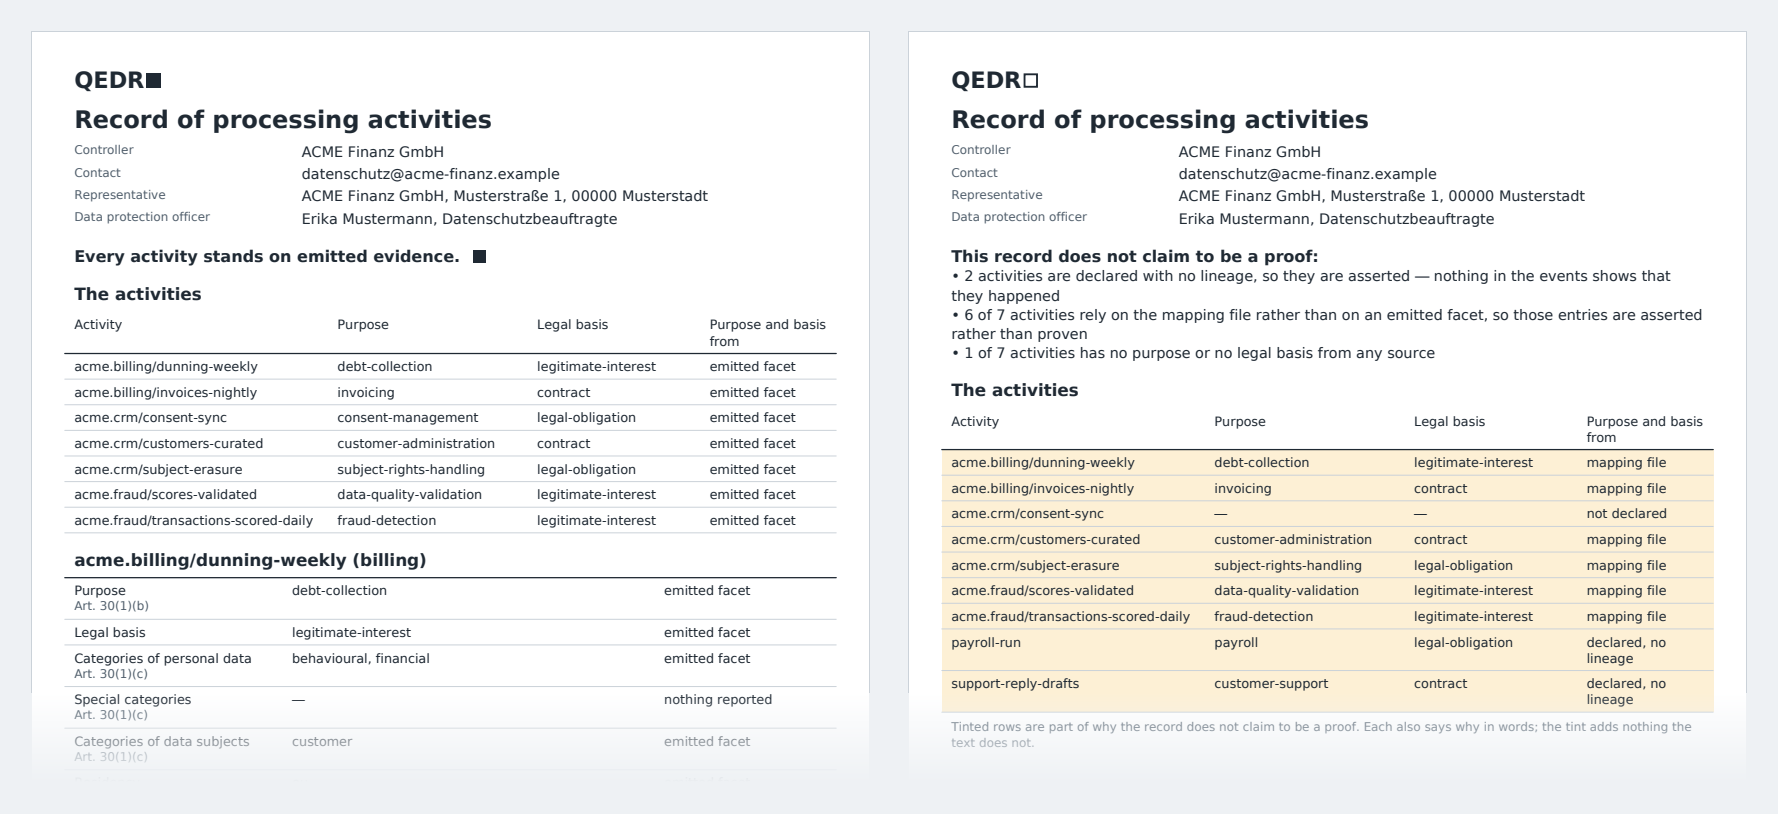
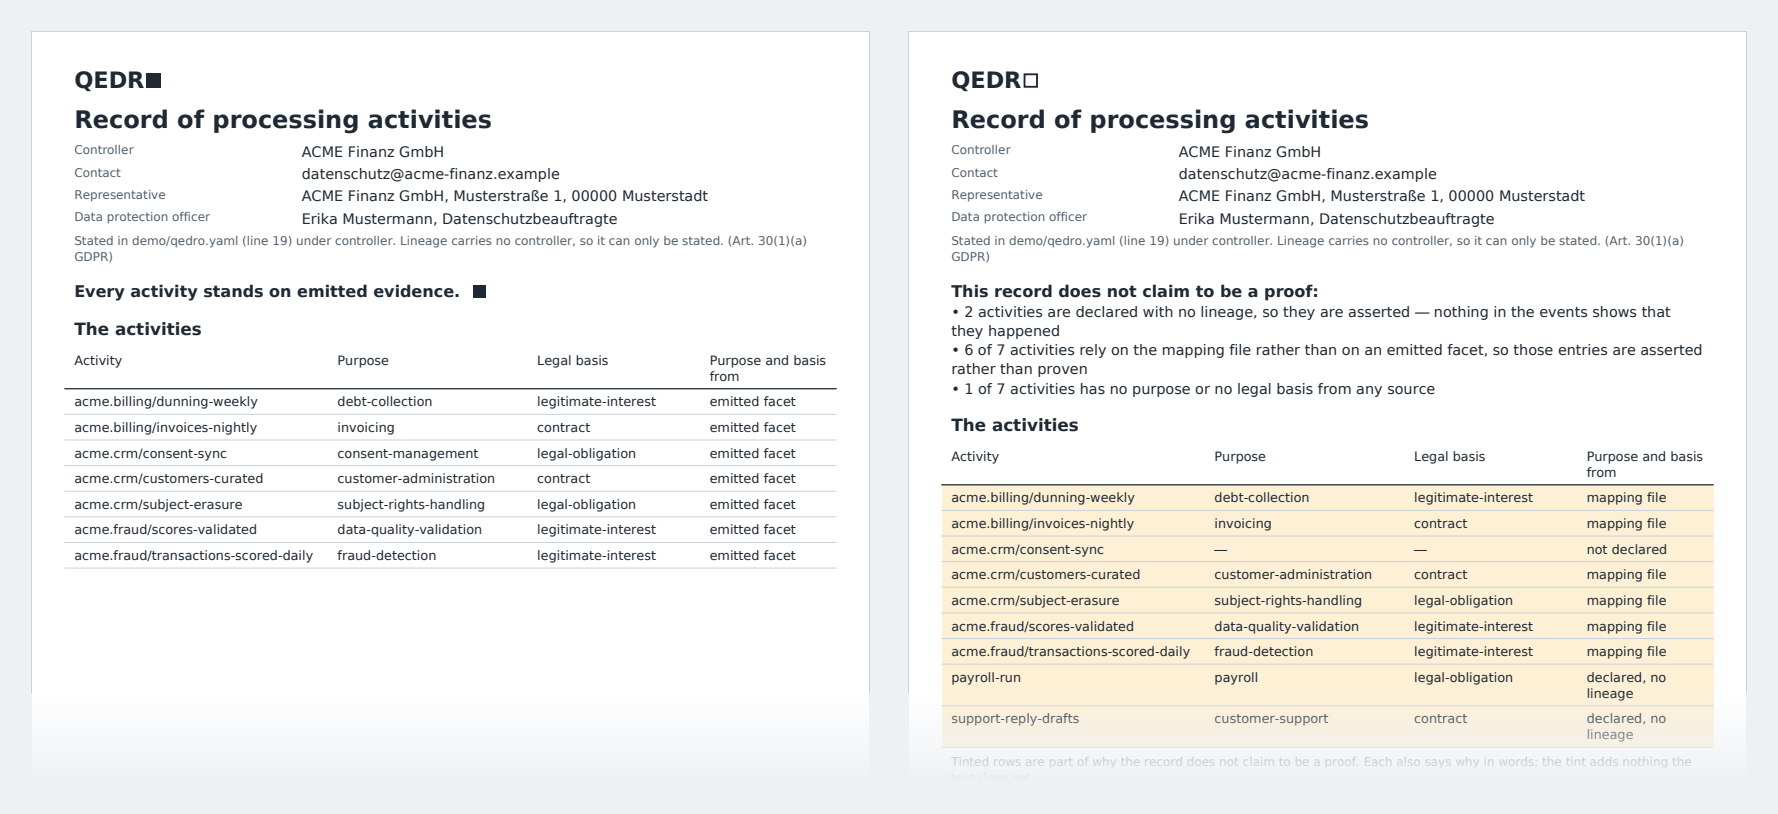
readme: the recording and the Art. 30 image from 0.27.0, and a pointer to qedro-lab
The recording ran against an older qedro from PyPI; recorded again against
0.27.0 with tools/readme_recording.tape and .py, and the Art. 30 image
regenerated with tools/readme_image.py. The erasure tree came out
unchanged. Both alt texts still match what the images show.

Try it now says where to see qedro read events real emitters sent: the
demo's come from a generator, and qedro-lab delivers one run of Airflow,
dbt, pipeline-runtime and art30-emit to every backend qedro reads.

diff --git a/README.md b/README.md
@@ -76,6 +76,12 @@ is the difference between a record somebody asserts and a record that stands on 
 evidence. The same files are committed in [`demo/`](demo/), and
 [`demo/README.md`](demo/README.md) walks through them.
 
+The demo's events are written by a generator. To see qedro read events that real
+emitters sent, [qedro-lab](https://github.com/cordata-tech/qedro-lab) runs Airflow,
+dbt, pipeline-runtime and art30-emit in Docker Compose for the same fictional company,
+and delivers every event to Marquez, Kafka, S3, GCS, Azure and a directory at once, so
+each of the readers below can be tried against the same run.
+
 To run it on your own lineage, [`docs/pilot.md`](docs/pilot.md) covers what you need,
 how to keep a copy of your events when the place they go today cannot give them back,
 and what the first hour produces.
